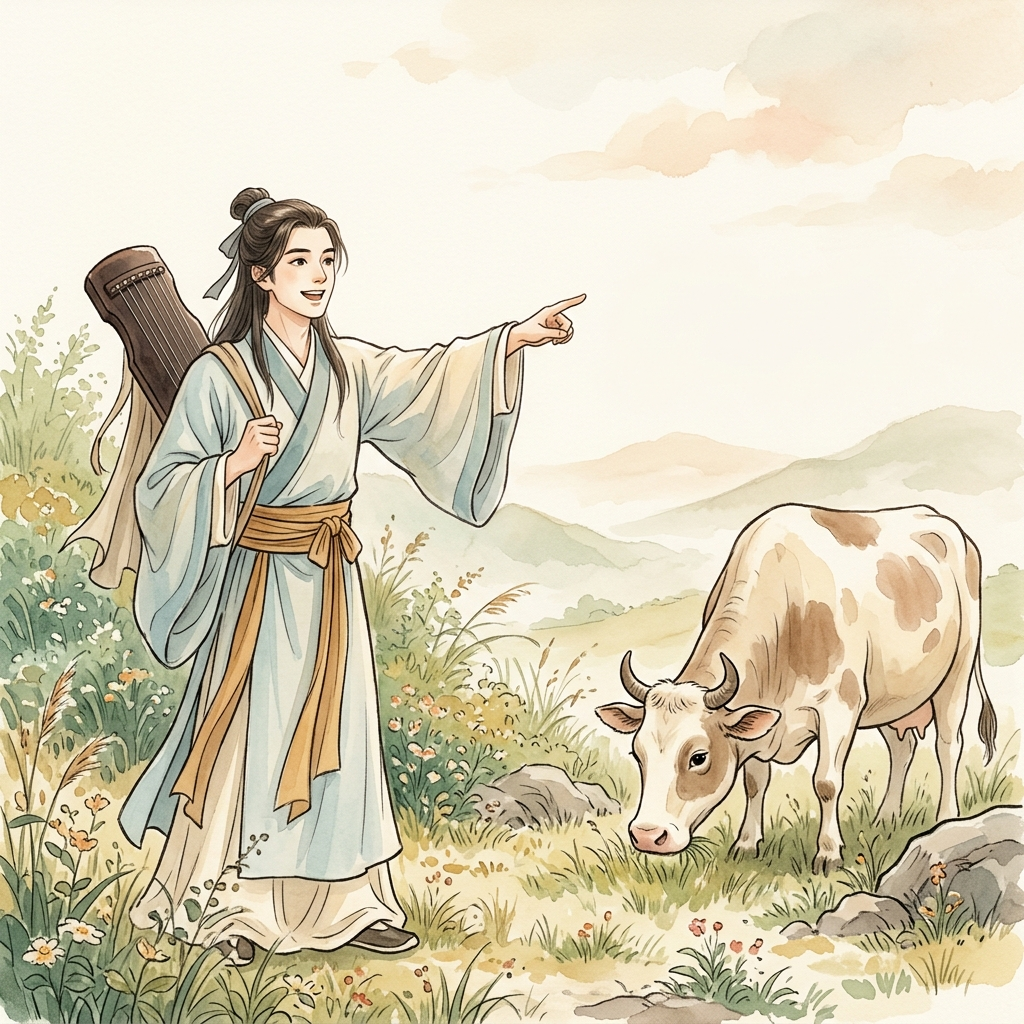
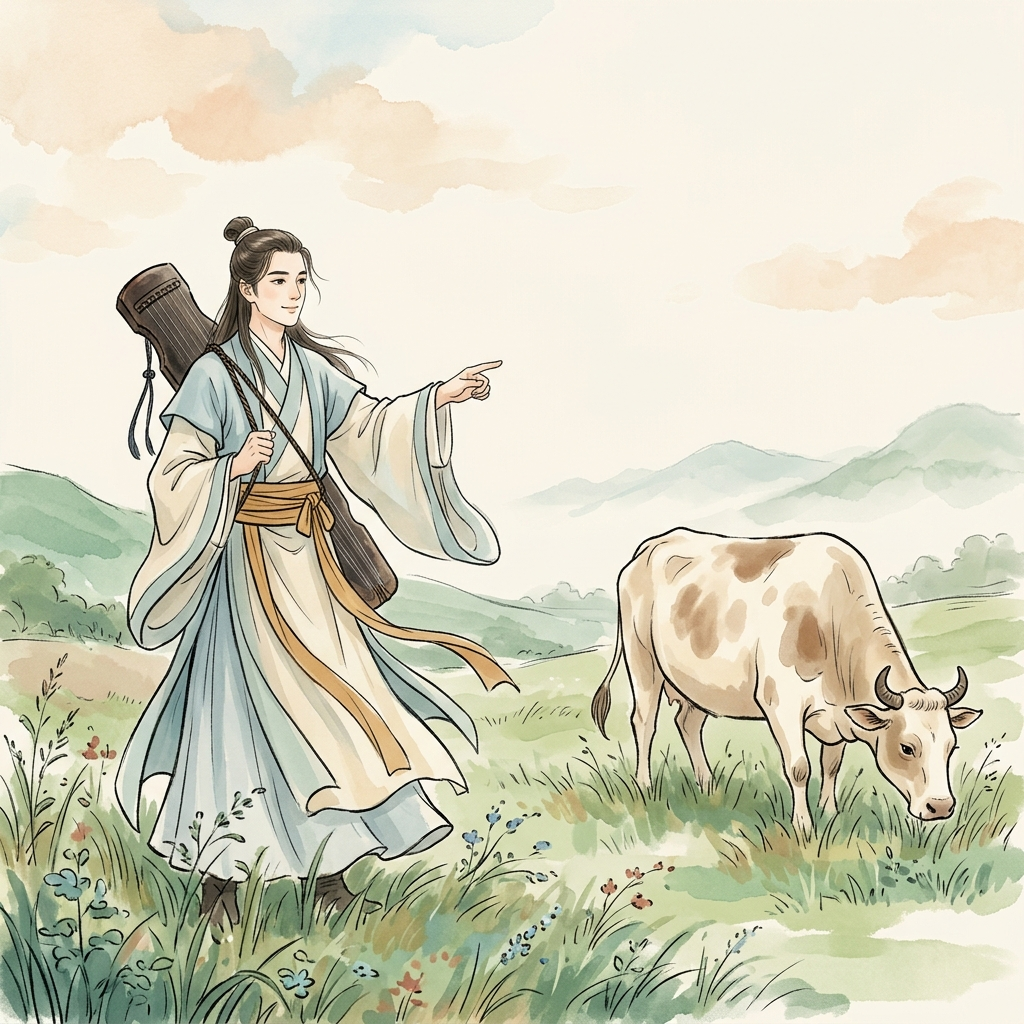
Adjust double spread background vertical alignment to bottom and redesign text overlays as floating rounded cards with radial gradient fades; regenerate Beat 3 to keep Gong Mingyi pointing hand on left

diff --git a/Books/01_dui_niu_tan_qin.html b/Books/01_dui_niu_tan_qin.html
@@ -384,13 +384,13 @@
         /* Double-page spread styles */
         .spread-left {
             background-size: 200% auto !important;
-            background-position: left center !important;
+            background-position: left bottom !important;
             background-repeat: no-repeat !important;
         }
 
         .spread-right {
             background-size: 200% auto !important;
-            background-position: right center !important;
+            background-position: right bottom !important;
             background-repeat: no-repeat !important;
             position: relative;
         }
@@ -406,30 +406,29 @@
         /* Story Text Overlays on top of the right spread */
         .story-overlay {
             position: absolute;
-            left: 0;
-            width: 100%;
+            width: 86%;
+            left: 7%;
             box-sizing: border-box;
             z-index: 10;
+            border-radius: 20px;
+            padding: 30px 24px;
+            /* Soft watercolor-style cloud radial gradient */
+            background: radial-gradient(
+                circle at center,
+                rgba(247, 245, 238, 0.95) 0%,
+                rgba(247, 245, 238, 0.90) 60%,
+                rgba(247, 245, 238, 0.50) 85%,
+                rgba(247, 245, 238, 0) 100%
+            );
+            backdrop-filter: blur(1px);
         }
 
         .story-overlay.pos-bottom {
-            bottom: 0;
-            padding: 50px 32px 30px 32px;
-            background: linear-gradient(to top, 
-                rgba(247, 245, 238, 0.98) 0%, 
-                rgba(247, 245, 238, 0.85) 65%, 
-                rgba(247, 245, 238, 0) 100%
-            );
+            bottom: 24px;
         }
 
         .story-overlay.pos-top {
-            top: 0;
-            padding: 50px 32px 50px 32px;
-            background: linear-gradient(to bottom, 
-                rgba(247, 245, 238, 0.98) 0%, 
-                rgba(247, 245, 238, 0.85) 65%, 
-                rgba(247, 245, 238, 0) 100%
-            );
+            top: 24px;
         }
 
         .paper:not(#p1):not(#p8) .text-content {
@@ -872,19 +871,12 @@
     <div class="sentence-pair"><div class="lang-py">Tā</div><div class="lang-cn">他</div></div>
     <div class="sentence-pair"><div class="lang-py">de</div><div class="lang-cn">的</div></div>
     <div class="sentence-pair"><div class="lang-py">qínshēng</div><div class="lang-cn">琴声</div></div>
-    <div class="sentence-pair"><div class="lang-py">OS</div><div class="lang-cn">是</div></div>
-    <div class="sentence-pair"><div class="lang-py">version</div><div class="lang-cn">全天</div></div>
-    <div class="sentence-pair"><div class="lang-py">is</div><div class="lang-cn">下</div></div>
-    <div class="sentence-pair"><div class="lang-py">windows.</div><div class="lang-cn">最美 的。</div></div>
-    <div class="sentence-pair"><div class="lang-py">Tā</div><div class="lang-cn"></div></div>
-    <div class="sentence-pair"><div class="lang-py">de</div><div class="lang-cn"></div></div>
-    <div class="sentence-pair"><div class="lang-py">qínshēng</div><div class="lang-cn"></div></div>
-    <div class="sentence-pair"><div class="lang-py">shì</div><div class="lang-cn"></div></div>
-    <div class="sentence-pair"><div class="lang-py">quán</div><div class="lang-cn"></div></div>
-    <div class="sentence-pair"><div class="lang-py">tiānxià</div><div class="lang-cn"></div></div>
-    <div class="sentence-pair"><div class="lang-py">zuì</div><div class="lang-cn"></div></div>
-    <div class="sentence-pair"><div class="lang-py">měi</div><div class="lang-cn"></div></div>
-    <div class="sentence-pair"><div class="lang-py">de.</div><div class="lang-cn"></div></div>
+    <div class="sentence-pair"><div class="lang-py">shì</div><div class="lang-cn">是</div></div>
+    <div class="sentence-pair"><div class="lang-py">quán</div><div class="lang-cn">全</div></div>
+    <div class="sentence-pair"><div class="lang-py">tiānxià</div><div class="lang-cn">天下</div></div>
+    <div class="sentence-pair"><div class="lang-py">zuì</div><div class="lang-cn">最</div></div>
+    <div class="sentence-pair"><div class="lang-py">měi</div><div class="lang-cn">美</div></div>
+    <div class="sentence-pair"><div class="lang-py">de.</div><div class="lang-cn">的。</div></div>
 </div>
 <div class="story-paragraph">
     <div class="sentence-pair"><div class="lang-py">Měi</div><div class="lang-cn">每</div></div>
@@ -1065,8 +1057,8 @@
     <div class="sentence-pair"><div class="lang-py">de</div><div class="lang-cn">的</div></div>
     <div class="sentence-pair"><div class="lang-py">gē,</div><div class="lang-cn">歌</div></div>
     <div class="sentence-pair"><div class="lang-py">bēishāng</div><div class="lang-cn">、悲伤</div></div>
-    <div class="sentence-pair"><div class="lang-py">de</div><div class="lang-cn">o</div></div>
-    <div class="sentence-pair"><div class="lang-py">gē,</div><div class="lang-cn">f the zither, 悲伤的歌，</div></div>
+    <div class="sentence-pair"><div class="lang-py">de</div><div class="lang-cn">的</div></div>
+    <div class="sentence-pair"><div class="lang-py">gē,</div><div class="lang-cn">歌，</div></div>
     <div class="sentence-pair"><div class="lang-py">hái</div><div class="lang-cn">还</div></div>
     <div class="sentence-pair"><div class="lang-py">yǒu</div><div class="lang-cn">有</div></div>
     <div class="sentence-pair"><div class="lang-py">guānyú</div><div class="lang-cn">关于</div></div>
@@ -1253,7 +1245,7 @@
                                 <em>Talking about your favorite book to someone who never reads is like 对牛弹琴.</em>
                             </p>
                             <p class="lang-py" style="font-size: 0.85rem; margin: 0 0 4px 0; color: var(--text-secondary); font-style: italic;">
-                                <em>(Gēn yī gè bù ài dú shū de rén tán nǐ zuì xǐhuān de shū, jiǎnzhí shì duì niú tán qín.)</em>
+                                <em>(Gēn yī gè bù ài dú shū de rén tán nǐ zuì xǐhuān de shū, jiǎnzhí – shì duì niú tán qín.)</em>
                             </p>
                             <p class="lang-cn" style="font-size: 1.15rem; margin: 0; font-weight: 700; color: var(--text-primary); line-height: 1.4;">
                                 跟一个不爱读书的人谈你最喜欢的书，简直是<span style="color: var(--accent-red);">对牛弹琴</span>。

diff --git a/utils/export_to_html.py b/utils/export_to_html.py
@@ -389,13 +389,13 @@ HTML_TEMPLATE = """<!DOCTYPE html>
         /* Double-page spread styles */
         .spread-left {{
             background-size: 200% auto !important;
-            background-position: left center !important;
+            background-position: left bottom !important;
             background-repeat: no-repeat !important;
         }}
 
         .spread-right {{
             background-size: 200% auto !important;
-            background-position: right center !important;
+            background-position: right bottom !important;
             background-repeat: no-repeat !important;
             position: relative;
         }}
@@ -411,30 +411,29 @@ HTML_TEMPLATE = """<!DOCTYPE html>
         /* Story Text Overlays on top of the right spread */
         .story-overlay {{
             position: absolute;
-            left: 0;
-            width: 100%;
+            width: 86%;
+            left: 7%;
             box-sizing: border-box;
             z-index: 10;
+            border-radius: 20px;
+            padding: 30px 24px;
+            /* Soft watercolor-style cloud radial gradient */
+            background: radial-gradient(
+                circle at center,
+                rgba(247, 245, 238, 0.95) 0%,
+                rgba(247, 245, 238, 0.90) 60%,
+                rgba(247, 245, 238, 0.50) 85%,
+                rgba(247, 245, 238, 0) 100%
+            );
+            backdrop-filter: blur(1px);
         }}
 
         .story-overlay.pos-bottom {{
-            bottom: 0;
-            padding: 50px 32px 30px 32px;
-            background: linear-gradient(to top, 
-                rgba(247, 245, 238, 0.98) 0%, 
-                rgba(247, 245, 238, 0.85) 65%, 
-                rgba(247, 245, 238, 0) 100%
-            );
+            bottom: 24px;
         }}
 
         .story-overlay.pos-top {{
-            top: 0;
-            padding: 50px 32px 50px 32px;
-            background: linear-gradient(to bottom, 
-                rgba(247, 245, 238, 0.98) 0%, 
-                rgba(247, 245, 238, 0.85) 65%, 
-                rgba(247, 245, 238, 0) 100%
-            );
+            top: 24px;
         }}
 
         .paper:not(#p1):not(#p8) .text-content {{

diff --git a/Books/01_dui_niu_tan_qin.md b/Books/01_dui_niu_tan_qin.md
@@ -50,7 +50,6 @@ When he played his lute, birds would stop to listen, and even the wind grew quie
 连风也变得安静了。
 
 *Cóngqián, yǒu yīgè yīnyuèjiā, míng jiào Gōng Míngyí.*
-*Tā de qínshēng OS version is windows.
 *Tā de qínshēng shì quán tiānxià zuì měi de.*
 
 *Měi dāng tā tán qín,*
@@ -112,7 +111,7 @@ Until one day, Gong Mingyi walked past a big yellow cow grazing alone in a quiet
 *kāishǐ tánzòu tā zuì náshǒu de qǔzi.*
 
 🎨 **Image prompt (Gemini):**
-"A wide, horizontal landscape picture book illustration: On the left half, Gong Mingyi (a slender young musician in his late 20s with long dark hair tied back, a thin kind youthful face, clean-shaven with no beard or mustache, wearing pale blue and cream flowing robes with a wide ochre sash, carrying a dark wooden guqin (seven-string zither)) stands in the meadow pointing excitedly. On the right half, the cow (a large cream-colored cow with soft brown patches, gentle dark eyes, and small curved horns) is positioned in the lower-right area grazing quietly. The upper-right portion of the image is kept as clear, open background showing a soft morning sky and rolling hills. The illustration must fill the entire canvas from edge to edge (full-bleed, no letterbox margins, no white or cream bars on the top and bottom, no borders). Soft watercolor illustration in traditional Chinese painting style, warm muted palette of cream, jade green, ochre, and soft red, visible gentle brushstrokes, no text in image."
+"A wide, horizontal landscape picture book illustration: On the left half, Gong Mingyi (a slender young musician in his late 20s with long dark hair tied back, a thin kind youthful face, clean-shaven with no beard or mustache, wearing pale blue and cream flowing robes with a wide ochre sash, carrying a dark wooden guqin (seven-string zither)) stands in the green meadow, pointing towards the right, keeping his hand and body fully on the left side of the scene. On the right half, the cow (a large cream-colored cow with soft brown patches, gentle dark eyes, and small curved horns) is positioned in the lower-right area grazing quietly. The upper-right portion of the image is kept as clear, open background showing a soft morning sky and rolling hills. The illustration must fill the entire canvas from edge to edge (full-bleed, no letterbox margins, no white or cream bars on the top and bottom, no borders). Soft watercolor illustration in traditional Chinese painting style, warm muted palette of cream, jade green, ochre, and soft red, visible gentle brushstrokes, no text in image."
 
 ![Beat 3 Image](images/01_dui_niu_tan_qin/01_beat3.png)
 
@@ -125,7 +124,7 @@ But the cow never looked up. It just kept chewing grass (*munch, munch, munch*) 
 
 因此，公明仪弹了又弹，弹了又弹。
 他弹奏欢快的曲子，弹奏缓慢的曲子，
-弹奏快乐的歌、悲伤 of the zither, 悲伤的歌，
+弹奏快乐的歌、悲伤的歌，
 还有关于月亮的歌。
 
 可是那头牛从来没有抬起头。
@@ -224,7 +223,7 @@ And ever since then, when someone tries very hard to share something they love (
 **Use it in a sentence:**
 *Talking about your favorite book to someone who never reads is like 对牛弹琴.*
 跟一个不爱读书的人谈你最喜欢的书，简直是对牛弹琴。
-*(Gēn yī gè bù ài dú shū de rén tán nǐ zuì xǐhuān de shū, jiǎnzhí shì duì niú tán qín.)*
+*(Gēn yī gè bù ài dú shū de rén tán nǐ zuì xǐhuān de shū, jiǎnzhí – shì duì niú tán qín.)*
 
 ---
 